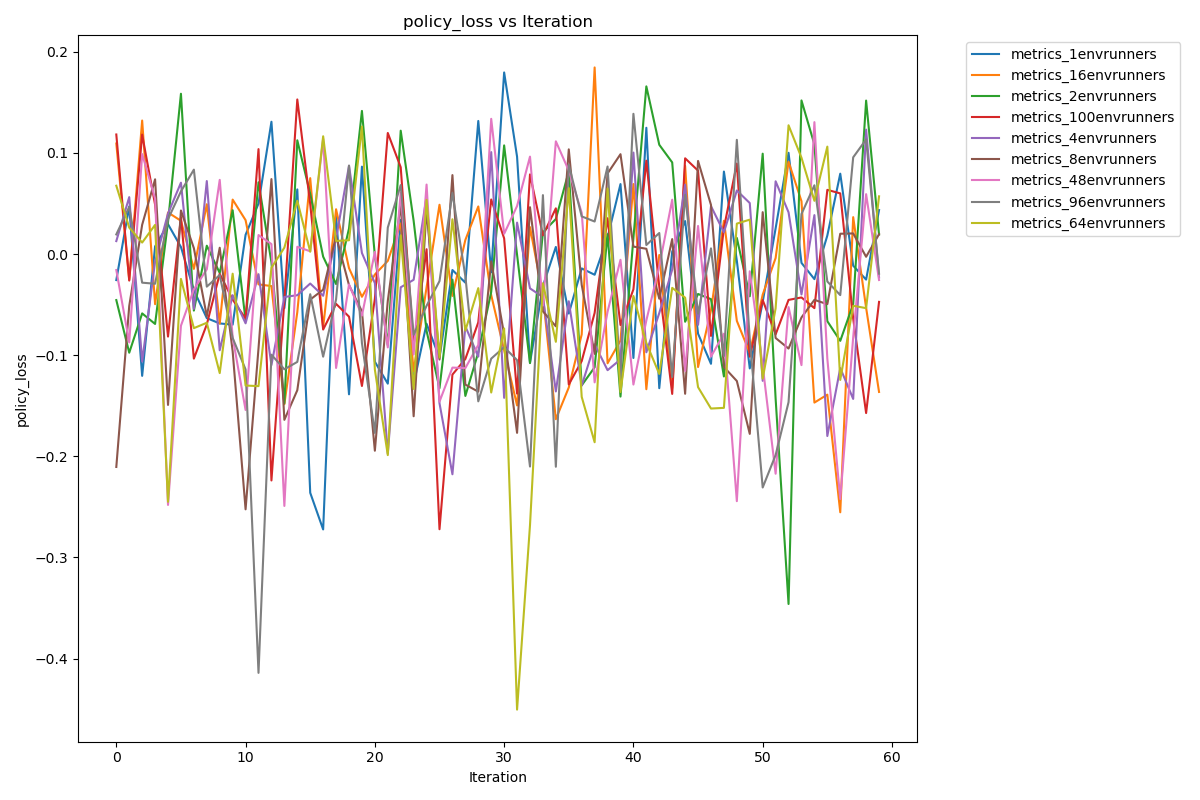
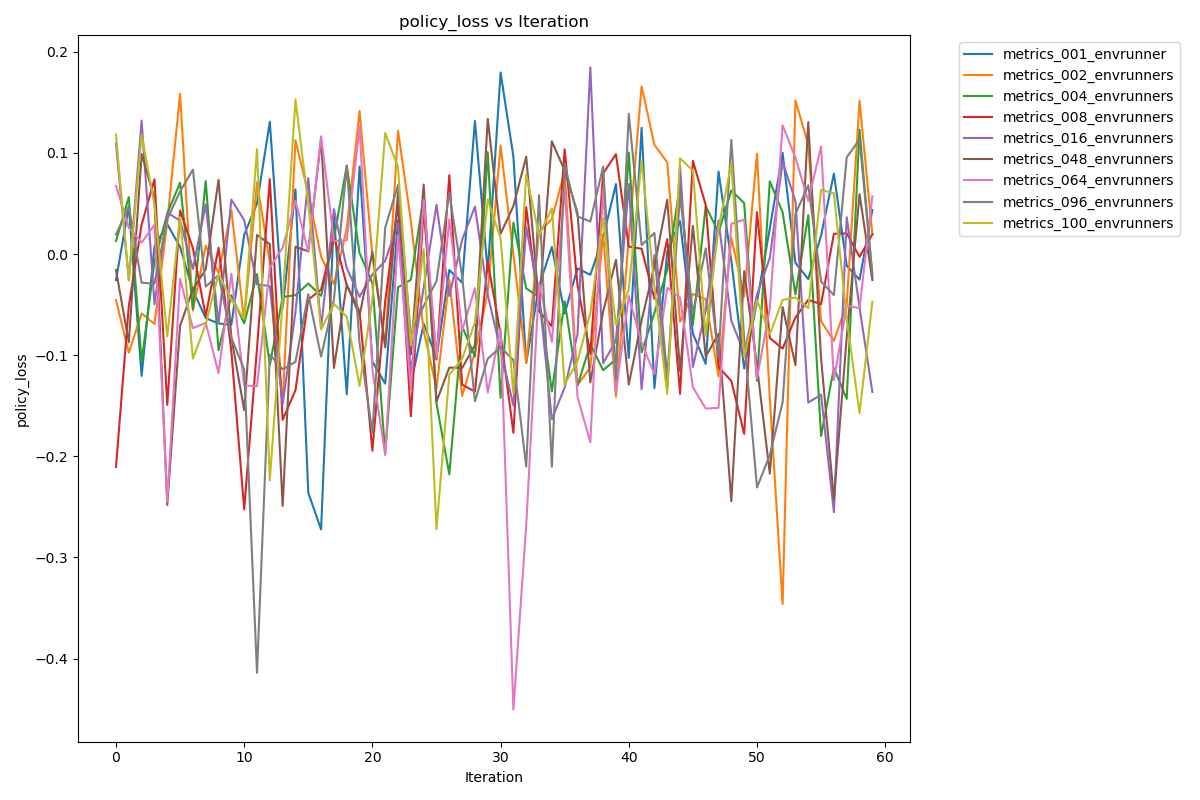
Add first comparison for 1 host experiments

diff --git a/compare_results.py b/compare_results.py
@@ -3,14 +3,20 @@ import glob
 import pandas as pd
 import matplotlib.pyplot as plt
 import os
+import re
 
-jsonl_folder = "experiments" 
-output_folder = "comparison_results"
+jsonl_folder = "experiments/1host" 
+output_folder = "comparison_results/1host"
 os.makedirs(output_folder, exist_ok=True)
 
-# Load data from all experiments
+# Load data from all experiments (sorted numerically by embedded number, e.g., env runners)
 experiments = {}
-for file in glob.glob(os.path.join(jsonl_folder, "*.jsonl")):
+
+def _numeric_key(path):
+    m = re.search(r"(\d+)", os.path.basename(path))
+    return int(m.group(1)) if m else float('inf')
+
+for file in sorted(glob.glob(os.path.join(jsonl_folder, "*.jsonl")), key=_numeric_key):
     exp_name = os.path.splitext(os.path.basename(file))[0]
     metrics = []
     with open(file, "r") as f:

diff --git a/csv_to_md.py b/csv_to_md.py
@@ -1,7 +1,7 @@
 import pandas as pd
 
 # Load CSV
-df = pd.read_csv("comparison_results/experiments_summary.csv")
+df = pd.read_csv("comparison_results/1host/experiments_summary.csv")
 
 # Print as Markdown table
 def df_to_markdown(df):

diff --git a/report.md b/report.md
@@ -90,6 +90,30 @@ Below can be found a detailed presentation of each experiment.
 
 ### Single host, many environment runners
 
+| Experiment | Final Reward | Max Reward | Mean Reward | Reward Std | Mean Episode Length | Mean Steps/sec |
+| --- | --- | --- | --- | --- | --- | --- |
+| metrics_001_envrunner | 127.79000000000008 | 151.39 | 82.10043055555555 | 35.05970465709116 | 703.3360138888887 | 44.933081579343 |
+| metrics_002_envrunners | 128.28750000000002 | 257.5375 | 86.55265410958904 | 60.64286957591198 | 730.6539697488585 | 57.32669390951912 |
+| metrics_004_envrunners | 102.1875 | 102.1875 | 60.906576492537326 | 22.80347487439459 | 938.502139303483 | 66.16930259080075 |
+| metrics_008_envrunners | 120.32500000000002 | 151.4375 | 85.81225340136055 | 37.92548127820646 | 794.9601573129253 | 71.02742005495423 |
+| metrics_016_envrunners | 107.8375 | 111.75 | 68.85440883190883 | 26.60861981958292 | 695.885892094017 | 73.48247530354112 |
+| metrics_048_envrunners | 71.33333333333333 | 90.33333333333331 | 60.075464083938655 | 24.010422146349164 | 611.3496771589993 | 75.6646421836694 |
+| metrics_064_envrunners | 150.109375 | 152.0 | 79.24534581386074 | 47.78348748577528 | 610.1362361905492 | 77.32921319605522 |
+| metrics_096_envrunners | 104.08333333333331 | 104.08333333333331 | 52.108100221309996 | 25.830408052200628 | 585.9487801162471 | 73.7251977142047 |
+| metrics_100_envrunners | 92.18 | 92.18 | 53.774347328847334 | 24.900682245920592 | 584.5207488039565 | 73.0805720558696 |
+
+
+By changing the number of environment runners, we expected to see improvements in performance, but we discovered that the results were not so easy to predict.
+
+We were able to detect that the throughtput increased, with more environment steps happening per second for each iteration as we increased the number of runners, which confirmed our expectation. However, at some point (from 8 runners onwards) no more gains could be obtained.
+
+![Env steps per second vs iteration](comparison_results/1host/env_steps_per_second_vs_iteration.png)
+
+However, the analysis of the rewards shows that the highest rewards were achieved with 2 environment runners, followed by experiments with 64, 8, and 1.
+
+![Reward vs iteration](comparison_results/1host/reward_vs_iteration.png)
+
+
 #### Experiment 1: 1 host, 1 environment runner
 Master Node: paradoxe-31.rennes.grid5000.fr
 
